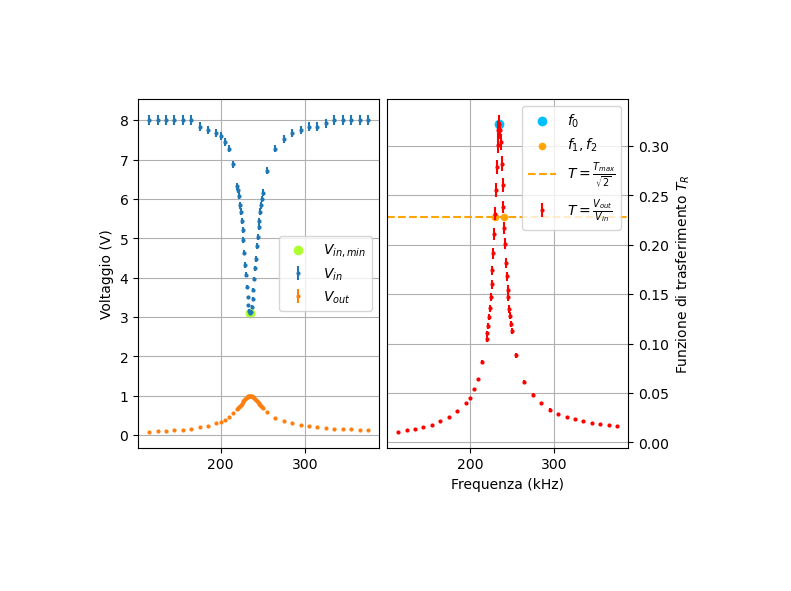
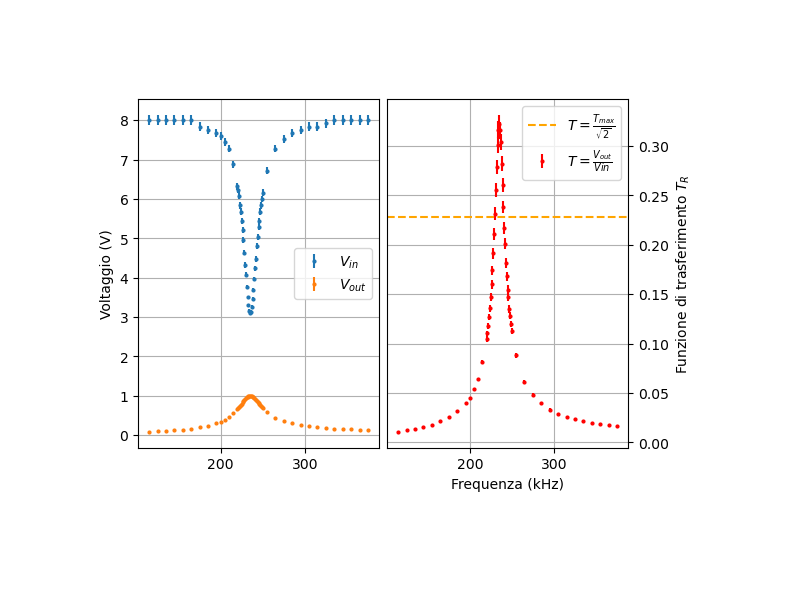
mappa chi-quadro

Changed region(s): [[0.6372, 0.1827, 0.7889, 0.3959], [0.3641, 0.3959, 0.4855, 0.5178], [0.3034, 0.5178, 0.3338, 0.5482]]

diff --git a/RLC freq/mari/provagrafici.py b/RLC freq/mari/provagrafici.py
@@ -10,6 +10,60 @@ import multiprocessing.pool
 
 DEB = False
 
+def fitf_C(x, A, B, C):
+    omega = 2.0 * np.pi * x * 1e3  # input in kHz
+    fitval = A / np.sqrt((1-omega**2/B**2)**2+1/C**2*omega**2/B**2)
+    return fitval
+
+def fitf_R(x, A, B, C):
+    omega = 2.0 * np.pi * x * 1e3  # input in kHz
+    fitval = A / np.sqrt(1+C**2*(omega/B-B/omega)**2)
+    return fitval
+
+def fitchi2(i,j,k):
+    x = fr
+    y = TR
+    y_err = eTR
+    AA,BB,CC = A_chi[i],B_chi[j],C_chi[k]
+    omega = 2.0 * np.pi * x * 1e3  # input in kHz
+    residuals = (y -  fitf_R(x,AA,BB,CC))  # Seleziono fit su R
+#    residuals = (y -  fitf_C(x,AA,BB,CC))  # Seleziono fit su C
+    chi2 = np.sum((residuals/y_err)**2)
+    mappa[i,j,k] = chi2
+
+def profi2D(axis,matrix3D):
+    if axis == 1 :
+        mappa2D = np.array([[np.min(mappa[:,b,c]) for b in range(step)] for c in range(step)])
+    if axis == 2 :
+        mappa2D = np.array([[np.min(mappa[a,:,c]) for a in range(step)] for c in range(step)])
+    if axis == 3 :
+        mappa2D = np.array([[np.min(mappa[a,b,:]) for a in range(step)] for b in range(step)])
+    return mappa2D
+
+def profi1D(axis, mappa):
+    if 1 in axis :
+        mappa2D = np.array([[np.min(mappa[:,b,c]) for b in range(step)] for c in range(step)])
+#        print('1')
+        if 2 in axis:
+            mappa1D = np.array([np.min(mappa2D[b,:]) for b in range(step)])
+#            print('2')
+        if 3 in axis:
+            mappa1D = np.array([np.min(mappa2D[:,c]) for c in range(step)])
+#            print('3')
+    else :
+#        print('2-3')
+        mappa2D = np.array([[np.min(mappa[a,:,c]) for a in range(step)] for c in range(step)])
+        mappa1D = np.array([np.min(mappa2D[a,:]) for a in range(step)])
+    return mappa1D
+
+
+
+## PARAMATERS
+
+# Number of bins for parameter scan
+NI = 20
+NJ = 20
+NK = 20
 
 
 ## PARAMATERS
@@ -28,10 +82,6 @@ inputname = file+'.txt'
 frfit0 = 10.0
 frfit1 = 100.0
 
-# Initial parameter values
-Ainit= 0.3
-Binit =  2.0 * np.pi *233000.  # Hz
-Cinit = 20. # Hz
 
 # Assumed reading errors
 letturaV = 0.1*0.41
@@ -59,7 +109,6 @@ eVin = np.sqrt((letturaV * Vdiv_in)**2 + (errscalaV * Vin)**2)
 
 # Calculate the transfer function
 TR = Vo / Vin
-print('TR',TR)
 eTR = TR * np.sqrt((eVo / Vo)**2 + (eVin / Vin)**2+ 2 * (errscalaV**2))
 
 # Plot Vin and Vout vs. f e the transfer function vs. f
@@ -94,3 +143,261 @@ plt.savefig(file+'_1'+'.png',
             dpi = 100)
 
 plt.show()
+Ainit=0.3157
+Binit=2.0 * np.pi *234990.
+#Binit=2 * np.pi*235000
+Cinit=21
+popt=[Ainit,Binit,Cinit]
+pcov=[0.0031, 2000, 1]
+residuA = TR - fitf_R(fr, Ainit,Binit,Cinit)
+chisq = np.sum((residuA/eTR)**2)
+df = N - 3
+chisq_rid = chisq/df
+
+x_fit = np.linspace(min(fr), max(fr), 1000)
+
+"""
+fit tracciato con mille punti fra la freq min e max
+"""
+
+# Plot the fit
+fig, ax = plt.subplots(2, 1, figsize=(5, 4),sharex=True, constrained_layout = True, height_ratios=[2, 1])
+ax[0].plot(x_fit, fitf_R(x_fit, *popt), label='Fit', linestyle='--', color='black')
+ax[0].plot(x_fit,fitf_R(x_fit,Ainit,Binit,Cinit), label='init guess', linestyle='dashed', color='green')
+ax[0].errorbar(fr,TR,yerr=eTR, fmt='o', label=r'$T=\frac{V_{out}}{V{in}}$',ms=2,color='red')
+ax[0].legend(loc='upper left')
+ax[0].set_ylabel(r'Funzione di trasferimento $T_R$')
+ax[0].grid(True)
+#ax[0].set_xticks([20,30,40,50])
+
+ax[1].errorbar(fr,residuA,yerr=eTR, fmt='o', label=r'Residui$',ms=2,color='red')
+ax[1].set_ylabel(r'Residui')
+ax[1].set_xlabel(r'Frequenza (kHz)')
+ax[1].plot(fr,np.zeros(len(fr)),color='black')
+ax[1].grid(True)
+plt.savefig(file+'_2'+'.png',
+            bbox_inches ="tight",
+            pad_inches = 1,
+            transparent = True,
+            facecolor ="w",
+            edgecolor ='w',
+            orientation ='Portrait',
+            dpi = 100)
+
+plt.show()
+
+
+# Extract and print best fit (BF) parameters and errors
+A_BF, B_BF, C_BF = popt #parametri del best fit
+eA_BF, eB_BF, eC_BF = pcov # errori del BF
+print("============== BEST FIT with SciPy ====================")
+print(r'A = ({a:.3e} +/- {b:.1e})'.format(a=A_BF,b=eA_BF))
+print(r'B = ({c:.5e} +/- {d:.1e}) kHz'.format(c=B_BF * 1e-3, d=eB_BF * 1e-3))
+print(r'C = ({e:.3e} +/- {f:.1e})'.format(e=C_BF, f=eC_BF))
+print(r'chisq = {m:.2f}'.format(m=chisq))
+print("=======================================================")
+
+"""
+Ora che abbiamo effettuato la regressione ai minimi quadrati utilizzando una libreria di Python (Scipy), 
+proviamo ad ottenere lo stesso risultato calcolando a mano dalla curva del chi2 i parametri piu' probabili
+ed il loro errore.
+"""
+
+"""
+Per prima cosa definiremo una matrice di punti A,B e C su cui calcolare il chi2. 
+Per farlo la centriamo sul valore BF che abbiamo trovato con scipy e ci allarghiamo di un 2sigma
+su ogni parametro (sempre considerando l'errore di scipy)
+"""
+
+# Define the interval for parameter limits
+NSI = 2 # numero di sigma rispetto all'errore di scipy
+A0, A1 = A_BF - NSI * eA_BF, A_BF + NSI * eA_BF # estremi di scansione del parametro A
+B0, B1 = B_BF - NSI * eB_BF, B_BF + NSI * eB_BF # estremi di scansione del parametro B
+C0, C1 = C_BF - NSI * eC_BF, C_BF + NSI * eC_BF # estremi di scansione del parametro C
+print('BO,B1',B0,B1)
+"""
+print(f"(A0 = {A0}, A1 = {A1}) V")
+print(f"(B0 = {B0}, B1 = {B1}) Hz")
+print(f"(C0 = {C0}, C1 = {C1}) s")
+"""
+
+
+# Calcolo mappa Chi2 3D
+
+step = 100 # discretizzazione all'interno dell'intervallo di scansione
+
+# array dei diversi parametri
+A_chi = np.linspace(A0,A1,step)
+B_chi = np.linspace(B0,B1,step)
+C_chi = np.linspace(C0,C1,step)
+
+# inizializzo la matrice 3D del chi2
+mappa = np.zeros((step,step,step))
+# creo una lista degli indici da mappare con il pool su piu processori
+item = [(i,j,k) for i in range(step) for j in range(step) for k in range(step)]
+
+# assign the global pool
+# inizializzo il pool per mandare su piu processori (fino a 100 processi in parallelo)
+pool = multiprocessing.pool.ThreadPool(100)
+# issue top level tasks to pool and wait
+# mappo la lista 'item' di indici nella funzione fitchi2 che si rifa' agli array dei parametri definiti
+#e in uscita salva il valore del chi2 nella posizione corretta della matrice 3D. 
+pool.starmap(fitchi2, item, chunksize=10)
+# close the pool
+pool.close()
+
+# alla fine si ottiene la mappa 3D del chi2
+mappa = np.asarray(mappa)            
+
+# trovo il minimo del chi2 e la sua posizione nella matrice 3D
+chi2_min = np.min(mappa)
+argchi2_min = np.unravel_index(np.argmin(mappa),mappa.shape)
+
+# calcolo i residui della regressione utilizzando i valori dei parametri del minimo del chi2
+# ricontrollo che il minimo del chi2 sia coerente.
+residui_chi2 = TR - fitf_R(fr,A_chi[argchi2_min[0]],B_chi[argchi2_min[1]],C_chi[argchi2_min[2]])
+
+
+chisq_res = np.sum((residui_chi2/eTR)**2)
+
+print(chi2_min,argchi2_min, chisq_res)
+
+# Grafico nuovamente la regressione e i residui, questa volta ottenuti calcolando a mano il minimo del chi2
+fig, ax = plt.subplots(2, 1, figsize=(3, 5),sharex=True, constrained_layout = True, height_ratios=[2, 1])
+ax[0].plot(x_fit, fitf_R(x_fit, A_chi[argchi2_min[0]],B_chi[argchi2_min[1]],C_chi[argchi2_min[2]]), label='Fit', linestyle='--', color='blue')
+#ax[0].plot(x_fit,fitf2(x_fit,Ainit,Binit,Cinit), label='init guess', linestyle='dashed', color='green')
+ax[0].errorbar(fr,TR,yerr=eTR, fmt='o', label=r'$V_{out}$',ms=2,color='red')
+ax[0].legend(loc='upper left')
+ax[0].set_ylabel(r'Funzione di trasferimento $T_R$')
+ax[0].grid(True)
+#ax[0].set_xticks([20,30,40,50])
+
+ax[1].errorbar(fr,residuA,yerr=eTR, fmt='o', label=r'Residui$',ms=2,color='red')
+ax[1].set_ylabel(r'Residui')
+ax[1].set_xlabel(r'Frequenza (kHz)')
+ax[1].plot(fr,np.zeros(N))
+ax[1].grid(True)
+plt.savefig(file+'_3'+'.png',
+            bbox_inches ="tight",
+            pad_inches = 1,
+            transparent = True,
+            facecolor ="w",
+            edgecolor ='w',
+            orientation ='Portrait',
+            dpi = 100)
+
+plt.show()
+
+"""
+A questo punto devo calcolare l'errore sui singoli parametri con il chi2+1, 
+e profilare il chi2 sui diversi parametri. Utilizzo le funzioni sopra definite.
+"""
+
+#Calcolo Profilazione 2D
+chi2D = profi2D(1,mappa)
+#Achi2D = profi2D(2,mappa) 
+
+#Calcolo Profilazioni 1D
+prof_B = profi1D([1,3],mappa)
+prof_C = profi1D([1,2],mappa)   
+prof_A = profi1D([2,3],mappa)    
+
+"""
+Per trovare l'errore sui parametri devo trovare i valori a chi2+1
+Per farlo sottraiamo alle profilazioni chi2+1 e ne facciamo il valore assoluto
+In questo modo i dati saranno tutti positivi ed avranno un minimo a chi2+1
+"""
+
+lvl = chi2_min+1. # 2.3 (2parametri) # 3.8 (3parametri)
+diff_B = abs(prof_B-lvl)
+diff_C = abs(prof_C-lvl)
+diff_A = abs(prof_A-lvl)
+
+B_dx = np.argmin(diff_B[B_chi<B_BF]) # minimo di B per valori inferiori al BF
+B_sx = np.argmin(diff_B[B_chi>B_BF])+len(diff_B[B_chi<B_BF]) # minimo di B per valori superiori al BF
+C_dx = np.argmin(diff_C[C_chi<C_BF])
+C_sx = np.argmin(diff_C[C_chi>C_BF])+len(diff_C[C_chi<C_BF])
+A_dx = np.argmin(diff_A[A_chi<A_BF])
+A_sx = np.argmin(diff_A[A_chi>A_BF])+len(diff_A[A_chi<A_BF])
+#print(B_dx,B_sx,C_dx,C_sx,A_dx,A_sx)
+
+# Facendo la differenza rispetto al BF ottengo gli errori a dx e a sx del BF
+errA = A_chi[argchi2_min[0]]-A_chi[A_dx]
+errAA = A_chi[A_sx]-A_chi[argchi2_min[0]]
+errB = B_chi[argchi2_min[1]]-B_chi[B_dx] 
+errBB = B_chi[B_sx] -B_chi[argchi2_min[1]]
+errC = C_chi[argchi2_min[2]]-C_chi[C_dx]
+errCC = C_chi[C_sx]-C_chi[argchi2_min[2]]
+
+
+print("============== BEST FIT with chi2 ====================")
+print(r'A = ({a:.3e} - {b:.1e} + {c:.1e})'.format(a=A_chi[argchi2_min[0]],b=errA,c=errAA))
+print(r'B = ({d:.5e} - {e:.1e} + {f:.1e}) kHz'.format(d=B_chi[argchi2_min[1]] * 1e-3, e=errB * 1e-3, f=errBB* 1e-3))
+print(r'C = ({g:.3e} - {h:.1e} + {n:.1e}) '.format(g=C_chi[argchi2_min[2]], h=errC,  n=errCC))
+print(r'chisq = {m:.2f}'.format(m=np.min(mappa)))
+print("=======================================================")
+
+
+"""
+Adesso faccio il grafico delle profilazioni 2D e 1D dei diversi parametri
+"""
+
+# definisco la mappa colore
+cmap = mpl.colormaps['plasma'].reversed()
+level = np.linspace(np.min(chi2D),np.max(chi2D),100)
+line_c = 'gray'
+
+
+# Profilazione di Omega e Q
+fig, ax = plt.subplots(2, 2, figsize=(5.5, 5),constrained_layout = True, height_ratios=[3, 1], width_ratios=[1,3], sharex='col', sharey='row')
+fig.suptitle(r'$\chi^2 \left(\omega_0, Q \right)$')
+im = ax[0,1].contourf(B_chi,C_chi,chi2D, levels=level, cmap=cmap) 
+cbar = fig.colorbar(im, extend='both', shrink=0.9, ax=ax[0,1], ticks = [int(chi2_min),int(chi2_min+2),int(chi2_min+4),int(chi2_min+6)]) 
+cbar.set_label(r'$\chi^2$',rotation=360)
+
+CS = ax[0,1].contour(B_chi,C_chi,chi2D, levels=[chi2_min+0.0001,chi2_min+1,chi2_min+2.3,chi2_min+3.8],linewidths=1, colors='k',alpha=0.5,linestyles='dotted')
+ax[0,1].clabel(CS, inline=True, fontsize=9, fmt='%.1f')
+ax[0,1].text(B_chi[np.argmin(prof_B)],C_chi[np.argmin(prof_C)],r'{g:.0f}'.format(g=chi2_min), color='k',alpha=0.5, fontsize=9)
+ax[0,1].plot([B0,B1],[C_chi[C_sx],C_chi[C_sx]],color=line_c, ls='dashed')
+ax[0,1].plot([B0,B1],[C_chi[C_dx],C_chi[C_dx]],color=line_c, ls='dashed')
+ax[0,1].plot([B_chi[B_sx],B_chi[B_sx]],[C0,C1],color=line_c, ls='dashed')
+ax[0,1].plot([B_chi[B_dx],B_chi[B_dx]],[C0,C1],color=line_c, ls='dashed')
+
+ax[0,0].plot(prof_B,C_chi,ls='-') 
+ax[0,0].plot([int(chi2_min-1),int(chi2_min+4)],[C_chi[C_sx],C_chi[C_sx]], color=line_c, ls='dashed') 
+ax[0,0].plot([int(chi2_min-1),int(chi2_min+4)],[C_chi[C_dx],C_chi[C_dx]], color=line_c, ls='dashed')
+
+ax[0,0].set_xticks([int(chi2_min),int(chi2_min+1),int(chi2_min+4),int(chi2_min+6)])
+ax[0,0].text(int(chi2_min+1),C_chi[np.argmin(prof_C)],r'{g:.2f}'.format(g=C_chi[np.argmin(prof_C)]), color='k',alpha=0.5, fontsize=9)
+ax[0,0].text(int(chi2_min+2),C_chi[C_sx],r'{g:.2f}'.format(g=errCC), color='b',alpha=0.5, fontsize=9)
+ax[0,0].text(int(chi2_min+2),C_chi[C_dx],r'{g:.2f}'.format(g=-1*errC), color='r',alpha=0.5, fontsize=9)
+
+ax[1,1].plot(B_chi,prof_C) 
+ax[1,1].plot([B_chi[B_sx],B_chi[B_sx]],[int(chi2_min-1),int(chi2_min+4)], color=line_c, ls='dashed') 
+ax[1,1].plot([B_chi[B_dx],B_chi[B_dx]],[int(chi2_min-1),int(chi2_min+4)], color=line_c, ls='dashed')
+
+ax[1,1].text(B_chi[np.argmin(prof_B)],int(chi2_min+1),r'{g:.3e}'.format(g=B_chi[np.argmin(prof_B)]), color='k',alpha=0.5, fontsize=9)
+ax[1,1].text(B_chi[B_sx],int(chi2_min+2),r'{g:.0e}'.format(g=errBB), color='b',alpha=0.5, fontsize=9)
+ax[1,1].text(B_chi[B_dx],int(chi2_min+2),r'{g:.0e}'.format(g=-1*errB), color='r',alpha=0.5, fontsize=9)
+ax[1,1].set_yticks([int(chi2_min),int(chi2_min+4),int(chi2_min+6)])
+
+
+ax[1,0].set_axis_off()
+ax[0,0].set_ylabel(r'$Q-valore$') 
+ax[1,1].set_xlabel(r'$\omega_0\left(Hz\right)$',loc='center') 
+ax[0,0].set_xlim(int(chi2_min-1),int(chi2_min+4)) 
+ax[1,1].set_ylim(int(chi2_min-1),int(chi2_min+4))
+
+plt.savefig(file+'_4'+'.png',
+            bbox_inches ="tight",
+            pad_inches = 1,
+            transparent = True,
+           facecolor ="w",
+           edgecolor ='w',
+            orientation ='Portrait',
+            dpi = 100)
+
+plt.show()
+
+
+

diff --git a/RLC freq/mari/capiR.py b/RLC freq/mari/capiR.py
@@ -114,7 +114,7 @@ frfit1 = 100.0
 
 # Initial parameter values
 Ainit= 0.3
-Binit =  2.0 * np.pi *233000.  # Hz
+Binit =  2.0 * np.pi *235000.  # Hz
 Cinit = 20. # Hz
 
 # Assumed reading errors
@@ -144,7 +144,7 @@ eVin = np.sqrt((letturaV * Vdiv_in)**2 + (errscalaV * Vin)**2)
 # Calculate the transfer function
 TR = Vo / Vin
 eTR = TR * np.sqrt((eVo / Vo)**2 + (eVin / Vin)**2+ 2 * (errscalaV**2))
-
+print('eTR',eTR)
 # Plot Vin and Vout vs. f e the transfer function vs. f
 
 fig, ax = plt.subplots(1, 2, figsize=(6, 4),sharex=True, constrained_layout = True, width_ratios=[1, 1])
